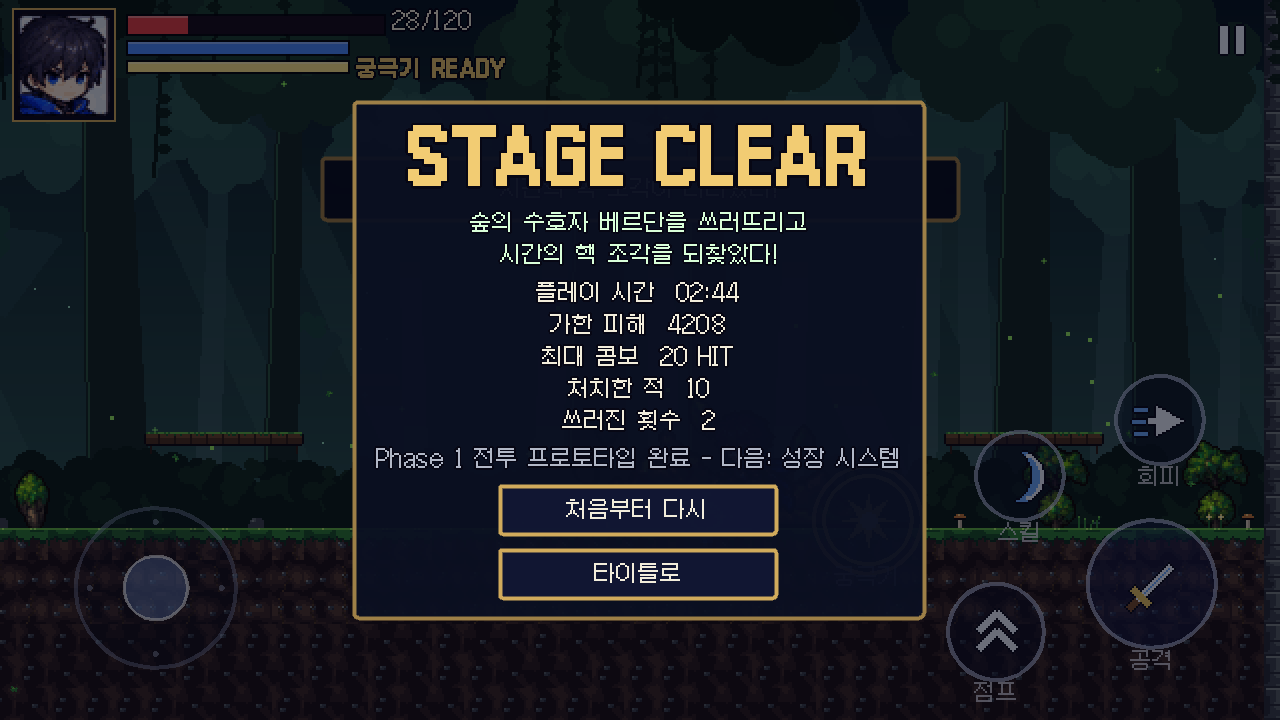
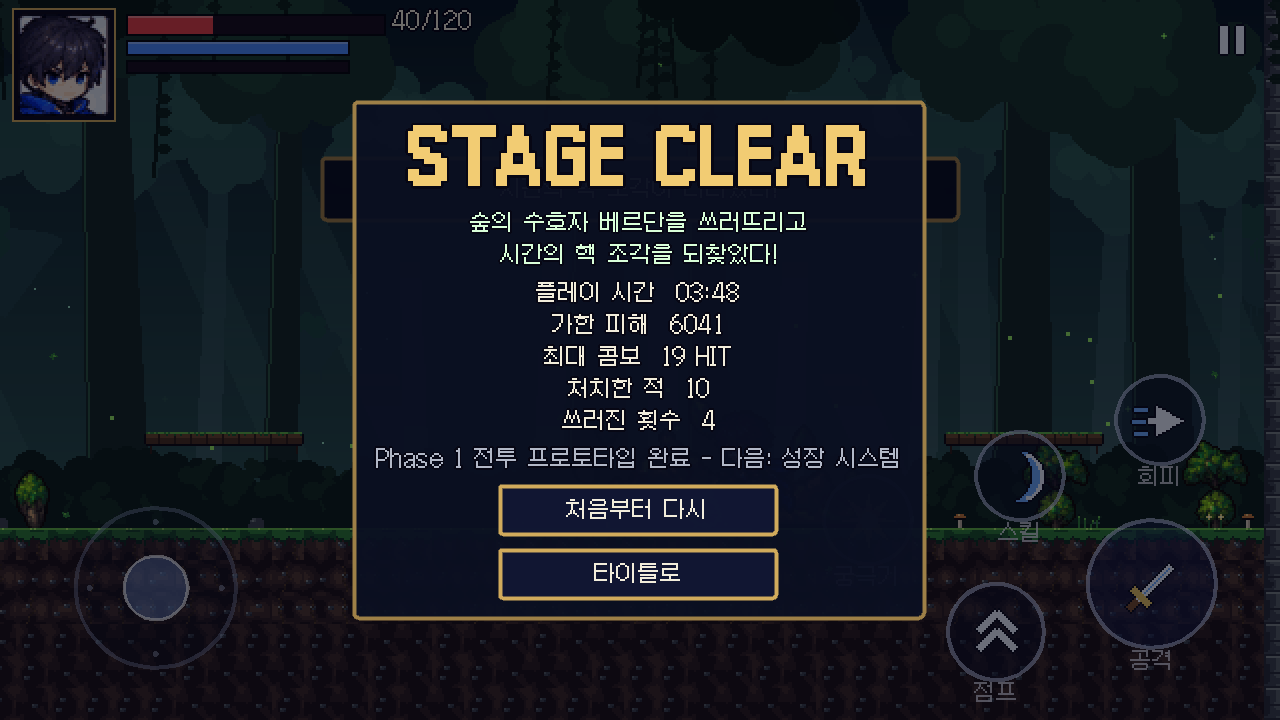
Use the final-build stage clear capture and record the rendered run
Claude-Session: https://claude.ai/code/session_012S3ra4UZATmGydcVY7VBaX

Changed region(s): [[0.0938, 0.0306, 0.4062, 0.1222], [0.4062, 0.4278, 0.5625, 0.5194], [0.5625, 0.3972, 0.5938, 0.4278]]

diff --git a/chronicle/docs/PHASE1_REPORT.md b/chronicle/docs/PHASE1_REPORT.md
@@ -26,7 +26,8 @@
 
 **자동 플레이 봇** (`-- --bot`): 터치 컨트롤과 같은 입력 액션만 보내고 화면에 보이는 정보(적 위치, 경고 표시)만 읽습니다.
 - 최종 코드로 헤드리스 4회 연속 **클리어** (사망 2·0·0·0회, 게임 시간 75~150초). 개발 중 전체 누적으로도 밸런스 조정 이후 실행은 모두 클리어.
-- 실제 렌더링(Xvfb + Mesa OpenGL, 1280×720) 실행도 클리어 → `docs/screenshots/`.
+- 실제 렌더링(Xvfb + Mesa OpenGL, 1280×720) 실행도 클리어 (최종 코드 1회: 4회 사망 후 클리어, 게임 시간 228초) → `docs/screenshots/`.
+  보스전 결과는 무작위 패턴에 따라 실행마다 사망 0~4회로 편차가 있습니다.
 - 화면 비율 1280×720(16:9), 2400×1080(20:9), 1600×1200(4:3)에서 HUD·조이스틱·버튼 배치 확인.
 
 **실기기**: 이 환경에는 Android SDK·기기가 없어 **Android 빌드와 실기기 테스트는 하지 못했습니다** (내보내기 프리셋만 준비).
